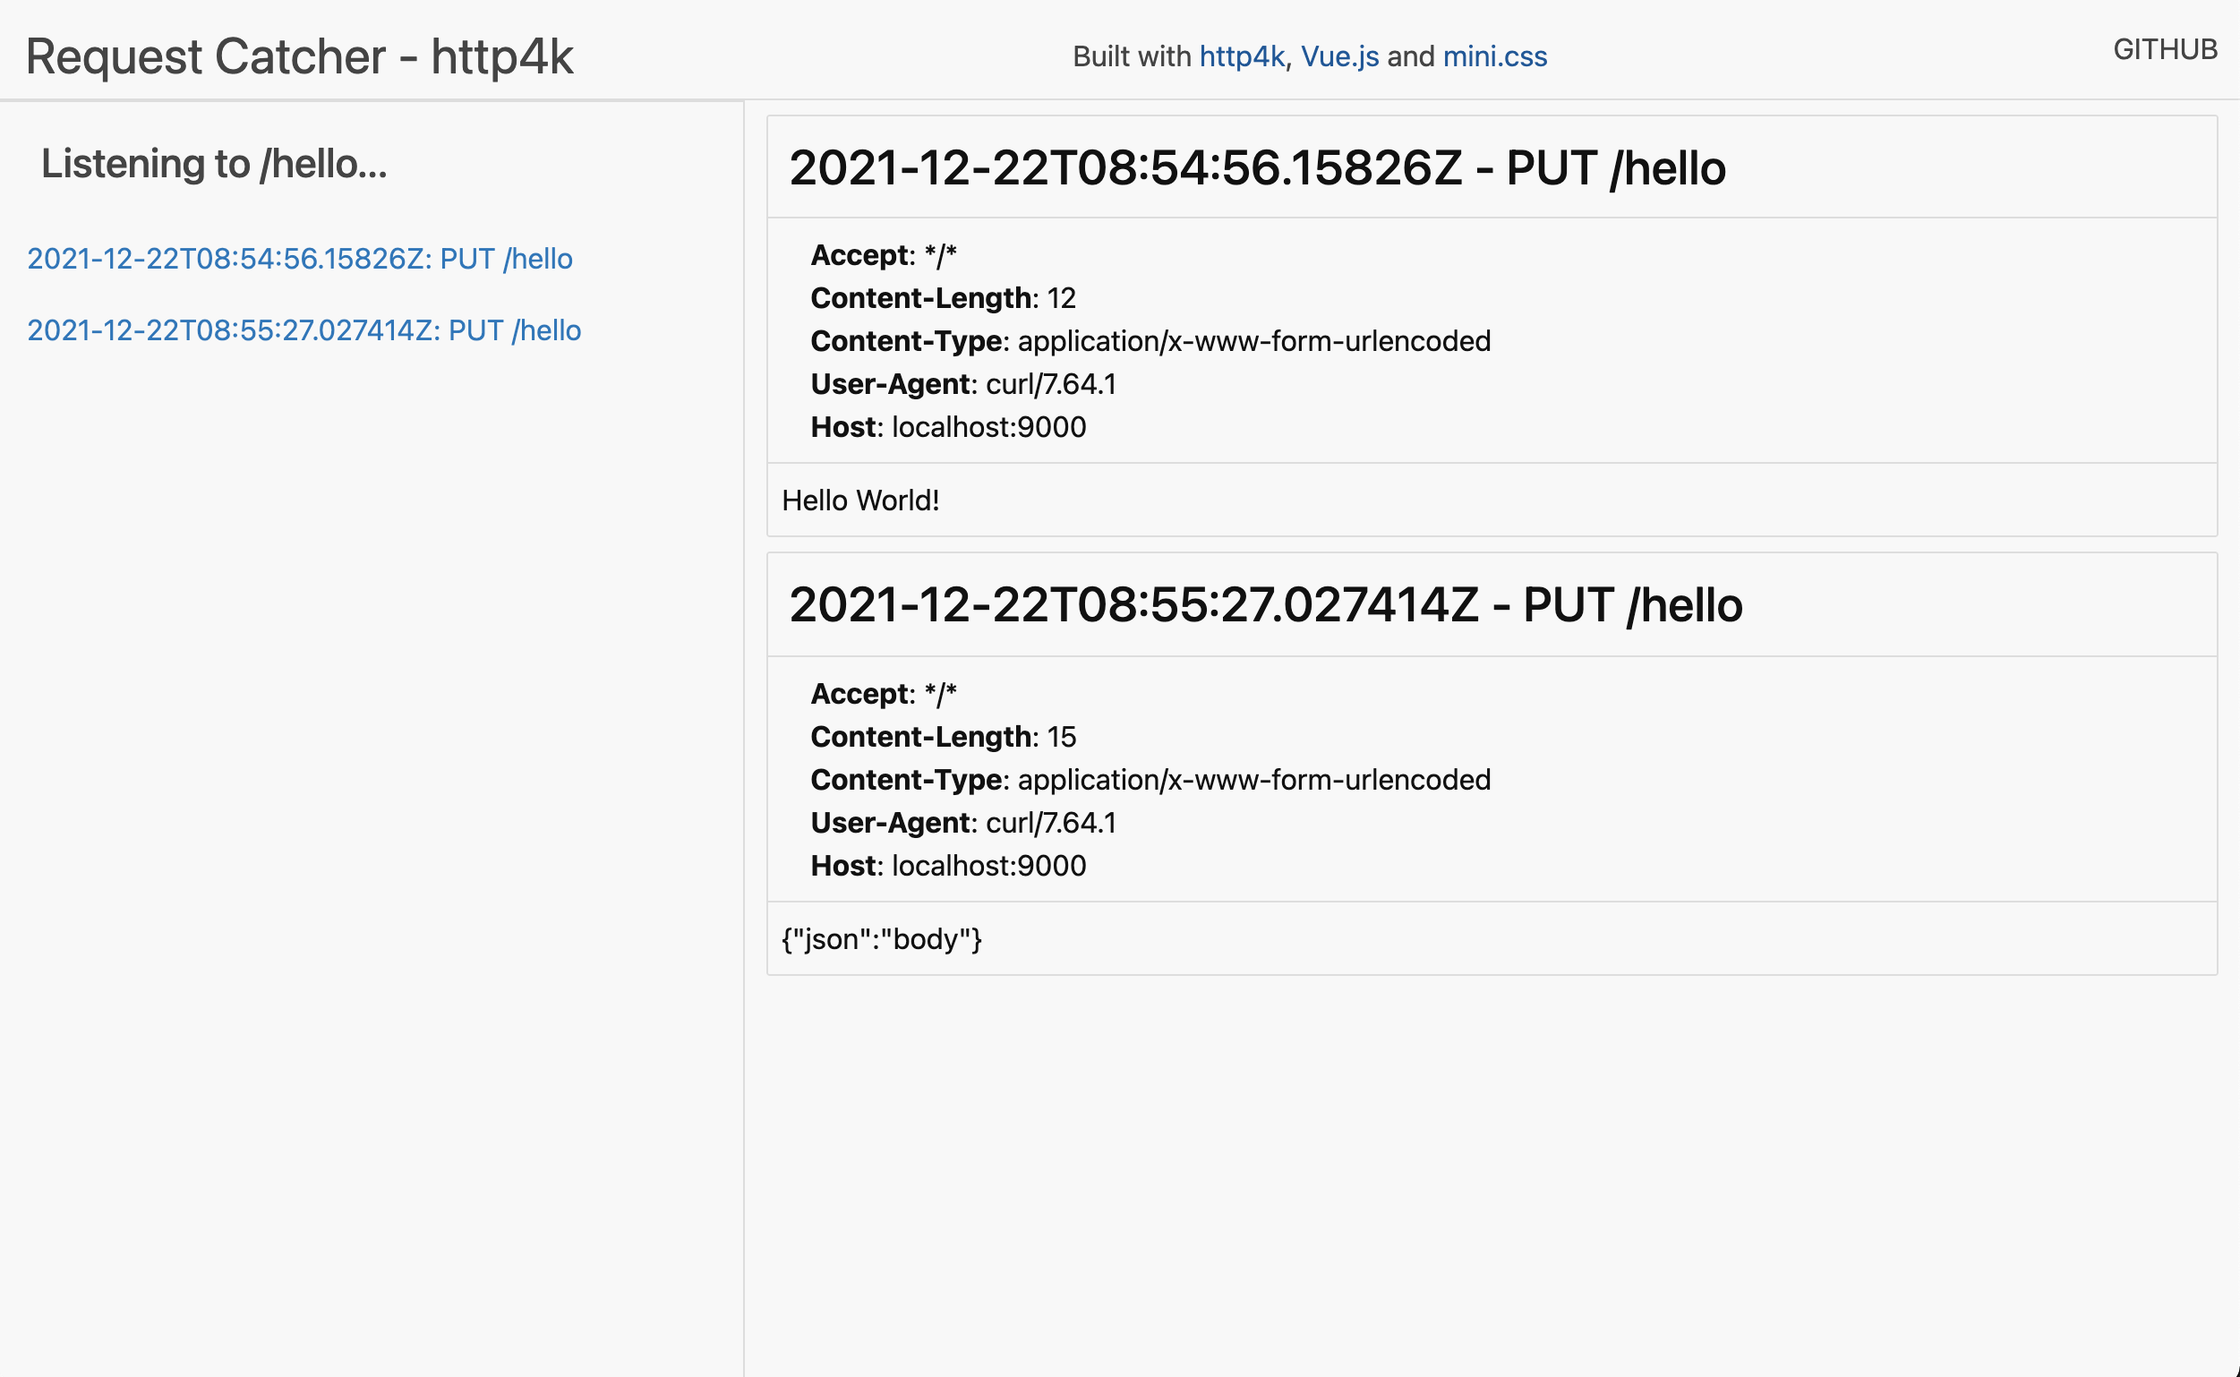
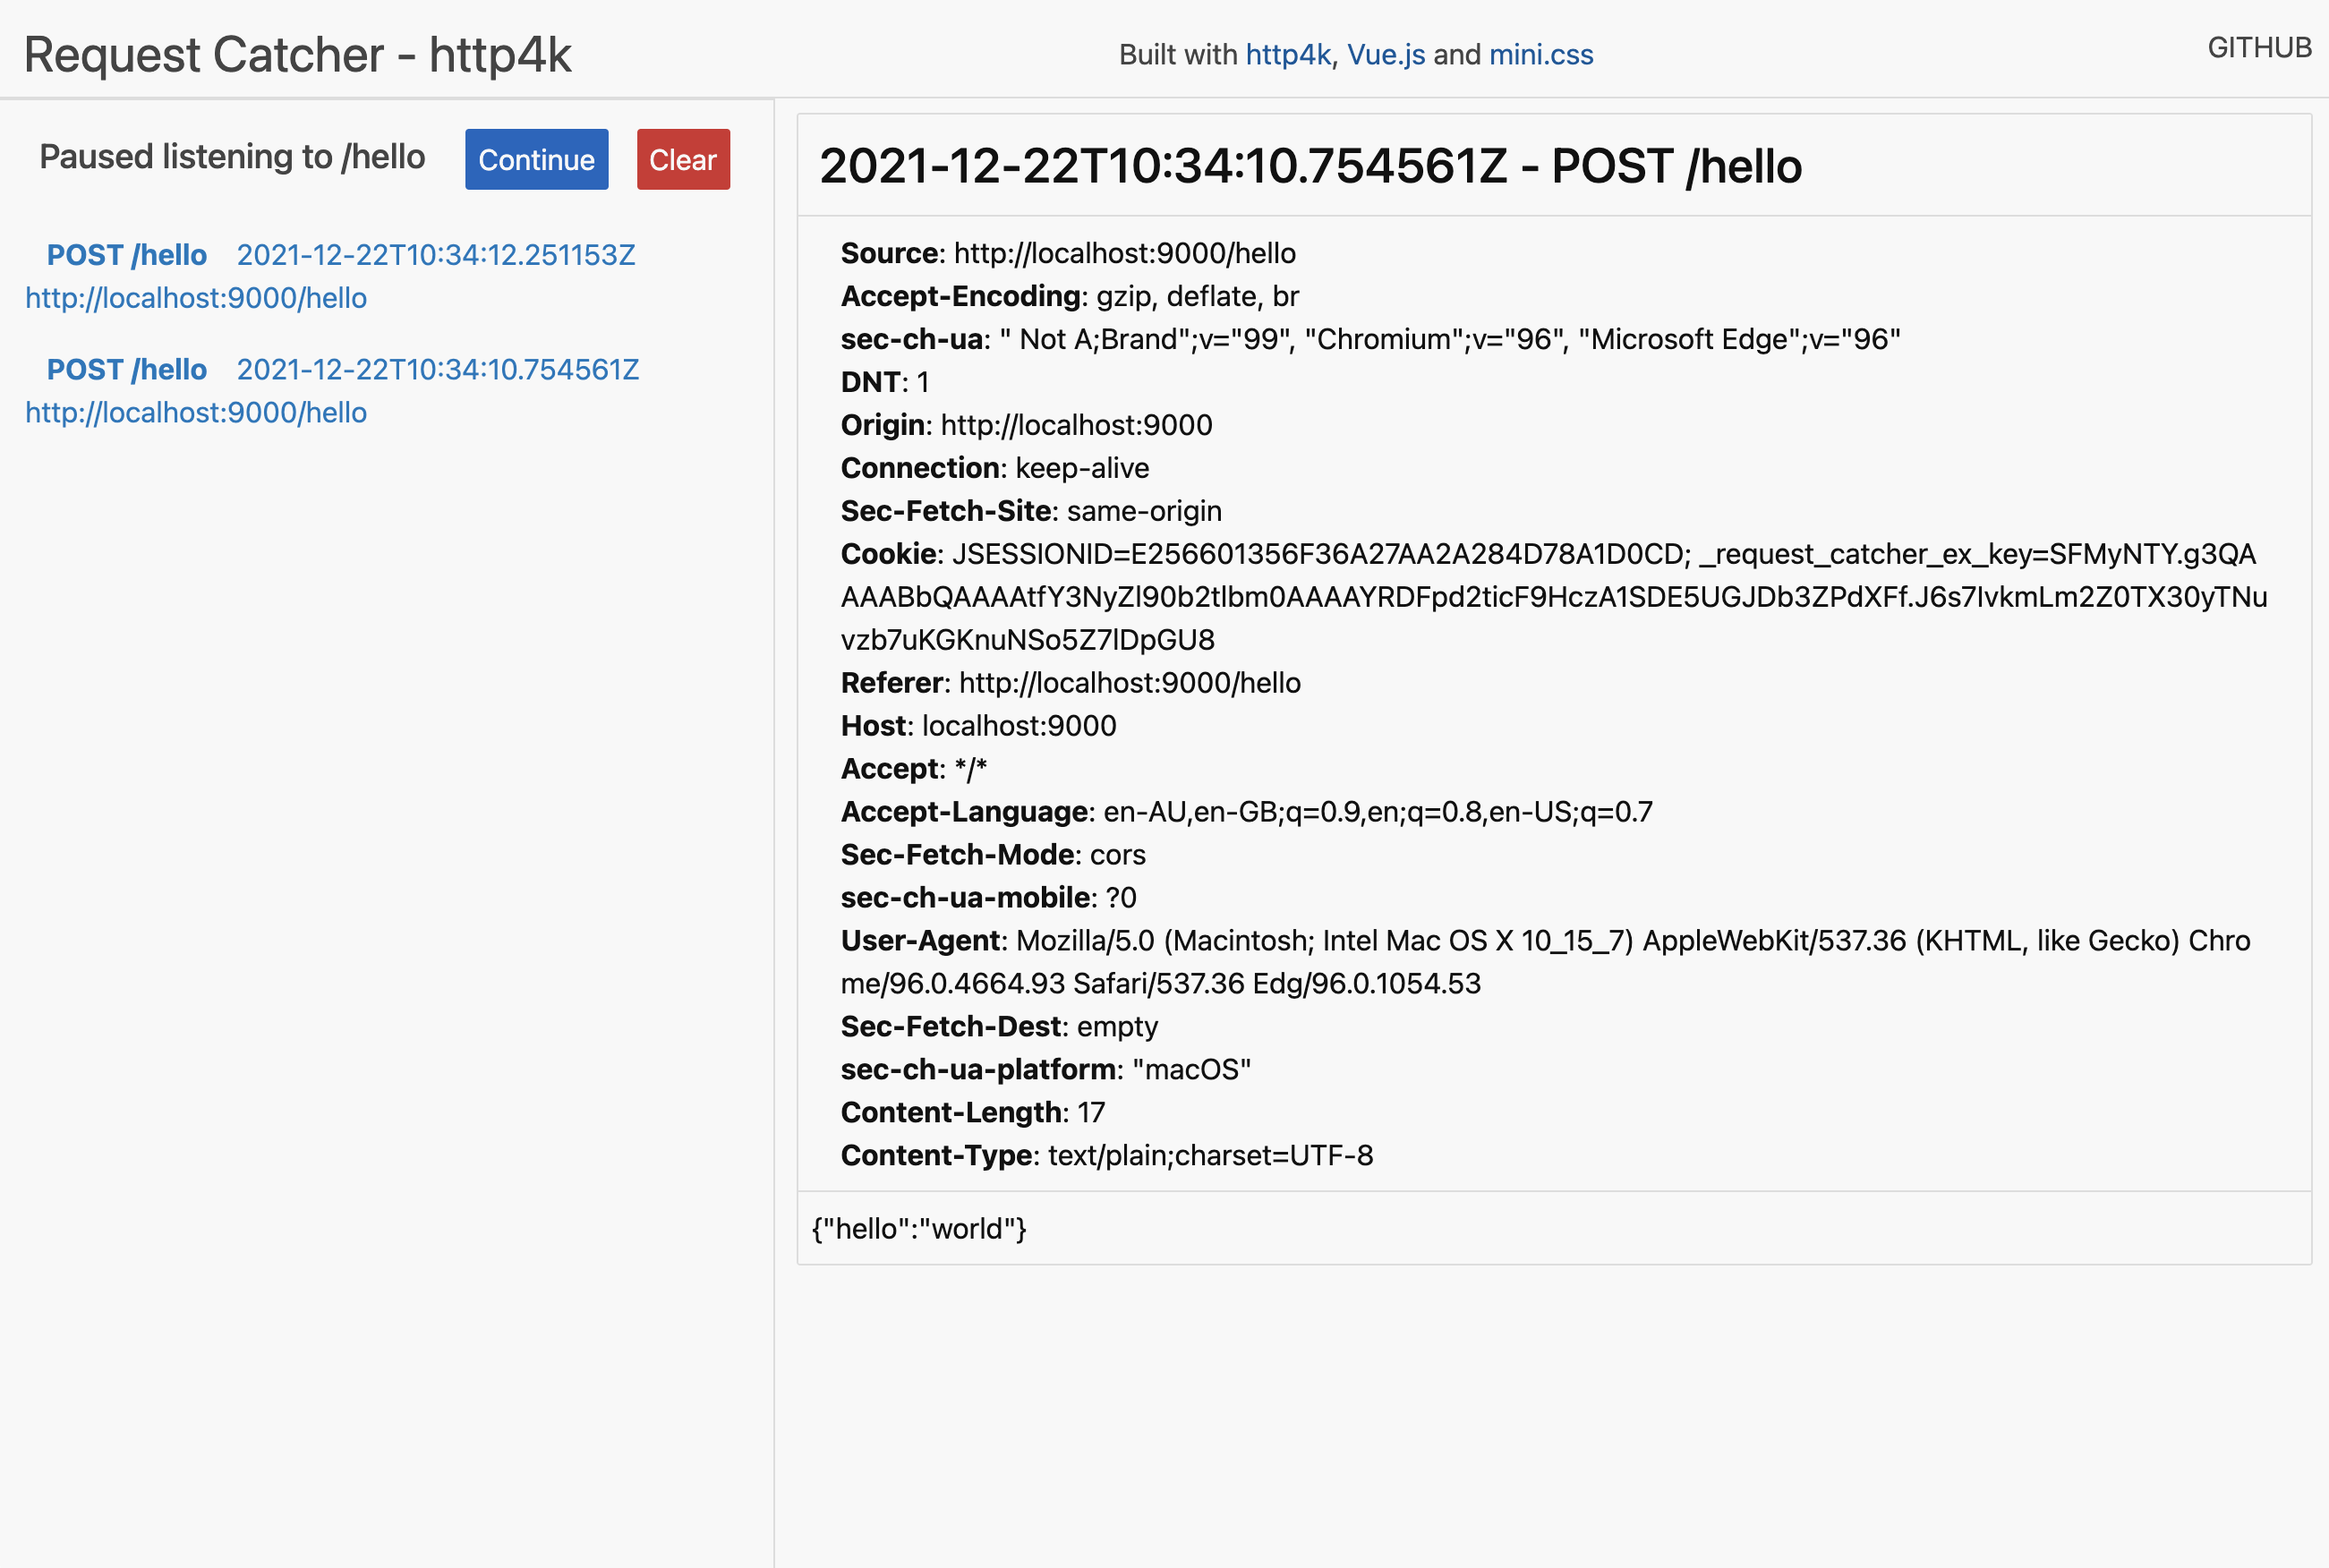
Reverse navigation list and add ability to pause listening

diff --git a/src/main/resources/com/catcher/request/models/ListenerPageViewModel.html b/src/main/resources/com/catcher/request/models/ListenerPageViewModel.html
@@ -17,8 +17,12 @@
             overflow-y: scroll;
         }
 
-        #requests-navbar a {
+        #requests-navbar a.new {
             animation: new-item 2s;
+        }
+
+        #socketStatus {
+            padding: 0;
         }
 
         #requests-status {
@@ -55,29 +59,44 @@
     <input id="doc-drawer-checkbox" class="drawer" value="on" type="checkbox">
     <nav class="col-md-4" id="requests-navbar">
         <div id="requests-status">
-            <h4 id="socketStatus">Waiting...</h4>
-            <button class="small" @click="clearRequests">Clear</button>
+            <h4 id="socketStatus">{{ status }}</h4>
+            <div style="padding: 0">
+                <button class="small primary" @click="recording = !recording" v-bind:disabled="!connected">
+                    {{recording ? "Pause" : "Continue"}}
+                </button>
+                <button class="small secondary" @click="clearRequests">Clear</button>
+            </div>
         </div>
-        <a v-bind:href="'#' + request.uuid" v-for="request in requests" v-bind:key="request.uuid">
-            {{ request.timestamp }}: {{request.method}} {{request.path}}
+        <a v-bind:href="'#' + request.uuid"
+           v-bind:key="request.uuid"
+           v-bind:class="{ new: index == 0 }"
+           v-for="(request, index) in reverseRequests"
+           v-on:click="selected = request.uuid"
+        >
+            <strong>{{request.method}} {{request.path}}</strong>
+            {{ request.timestamp }}
+            {{ request.source }}
         </a>
     </nav>
     <main class="col-md-8" id="requests-content">
-        <div class="card fluid" v-bind:id="request.uuid" v-for="request in requests" v-bind:key="request.uuid">
+        <div class="card fluid" v-bind:id="selectedRequest.uuid" v-if="selectedRequest">
             <h2 class="section double-padded">
-                {{ request.timestamp }} - {{request.method}} {{request.path}}
+                {{ selectedRequest.timestamp }} - {{selectedRequest.method}} {{selectedRequest.path}}
             </h2>
             <div class="section">
                 <div class="container">
                     <div class="row" style="word-break: break-all;">
-                        <div class="col-sm-12" v-for="header in request.headers">
+                        <div class="col-sm-12">
+                            <strong>Source</strong>: <span>{{ selectedRequest.source }}</span>
+                        </div>
+                        <div class="col-sm-12" v-for="header in selectedRequest.headers">
                             <strong>{{ header.key }}</strong>: <span>{{header.value}}</span>
                         </div>
                     </div>
                 </div>
             </div>
             <div class="section">
-                {{ request.body }}
+                {{ selectedRequest.body }}
             </div>
         </div>
     </main>
@@ -87,22 +106,39 @@
     const path = `[[${model.name}]]`;
     const socketUrl = `ws://${window.location.host}/${path}`;
     const socket = new WebSocket(socketUrl);
-    socket.addEventListener("open", () => {
-        document.getElementById("socketStatus").innerText = `Listening to /${path}...`;
-    });
-    socket.addEventListener("close", () => {
-        document.getElementById("socketStatus").innerText = `Disconnected from /${path}`;
-    });
 
     const RequestList = {
         data() {
             return {
                 requests: [],
+                selected: undefined,
+                connected: false,
+                recording: false,
             };
         },
         computed: {
-            recentRequests() {
-                return this.requests.reverse();
+            reverseRequests() {
+                // cap off at 50 requests
+                return this.requests.reverse().filter((r, i) => i < 50);
+            },
+            selectedRequest() {
+                return this.requests.find((r) => r.uuid === this.selected);
+            },
+            status() {
+                if (this.connected) {
+                    if (this.recording) {
+                        return `Listening to /${path}...`;
+                    } else {
+                        return `Paused listening to /${path}`;
+                    }
+                } else {
+                    if (this.recording) {
+                        return `Disconnected from /${path}`;
+                    } else {
+                        return `Waiting to connect to /${path}`;
+                    }
+                }
+
             },
         },
         methods: {
@@ -111,8 +147,25 @@
             },
         },
         mounted() {
+            socket.addEventListener("open", () => {
+                setTimeout(() => {
+                    this.connected = true;
+                    this.recording = true;
+                }, 1500);
+            });
+            socket.addEventListener("close", () => {
+                this.connected = false;
+            });
+
             socket.addEventListener("message", (message) => {
-                this.requests.push(JSON.parse(message.data));
+                if (!this.recording) {
+                    return;
+                }
+                const request = JSON.parse(message.data);
+                this.requests.push(request);
+                if (!this.selected) {
+                    this.selected = request.uuid;
+                }
             });
         },
     };

diff --git a/src/main/kotlin/com/catcher/request/RequestCatcher.kt b/src/main/kotlin/com/catcher/request/RequestCatcher.kt
@@ -30,7 +30,10 @@ fun Request.toDto(): CaughtRequest = CaughtRequest(
     path = this.uri.path,
     body = this.bodyString(),
     method = this.method.name,
-    source = this.source?.address ?: "Unknown",
+    source = this.header("x-forwarded-for")
+        ?: this.header("referer")
+        ?: this.source?.address
+        ?: "",
     headers = this.headers.toList().map { CaughtHeader(it.first, it.second) },
 )
 

diff --git a/README.md b/README.md
@@ -5,6 +5,9 @@
 - Uses [Vue.js](https://v3.vuejs.org) to augment the frontend
 - Uses Websockets to broadcast requests received
 - Uses [mini.css](https://minicss.org/) as a lightweight framework
+- Renders the received requests on the left in reverse order
+- Has the ability to play/pause requests
+- Has the ability to clear existing requests
 
 ![](./docs/page.png)
 
